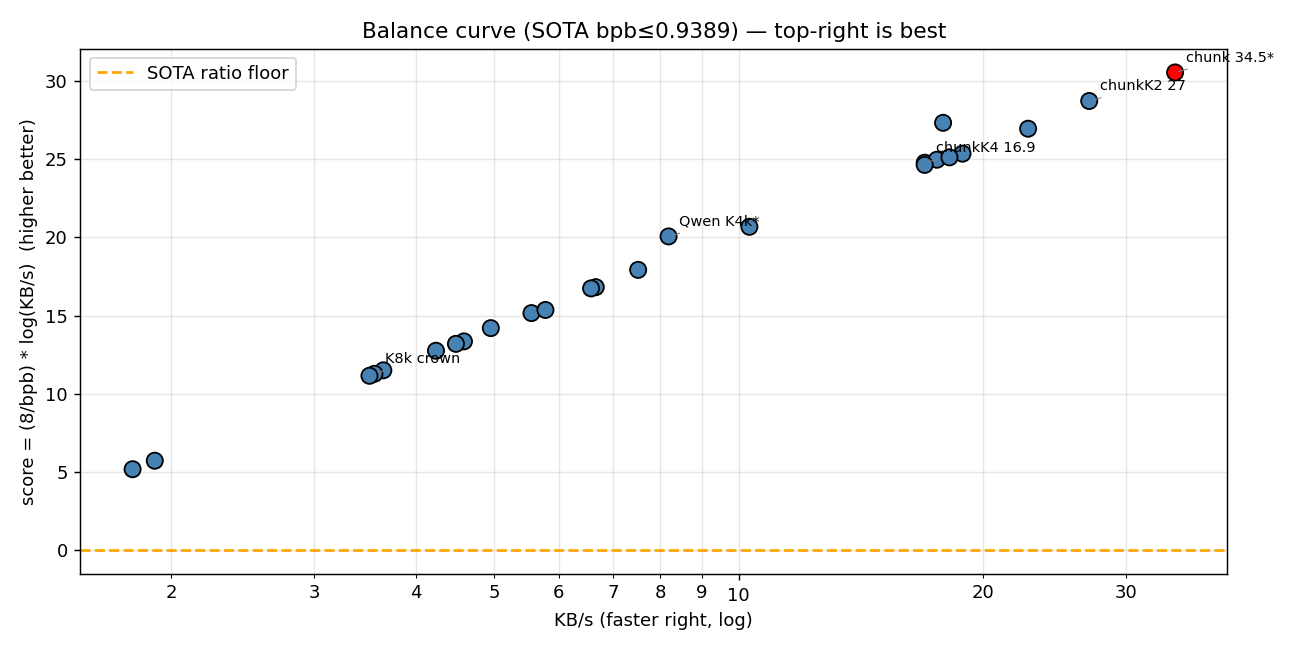
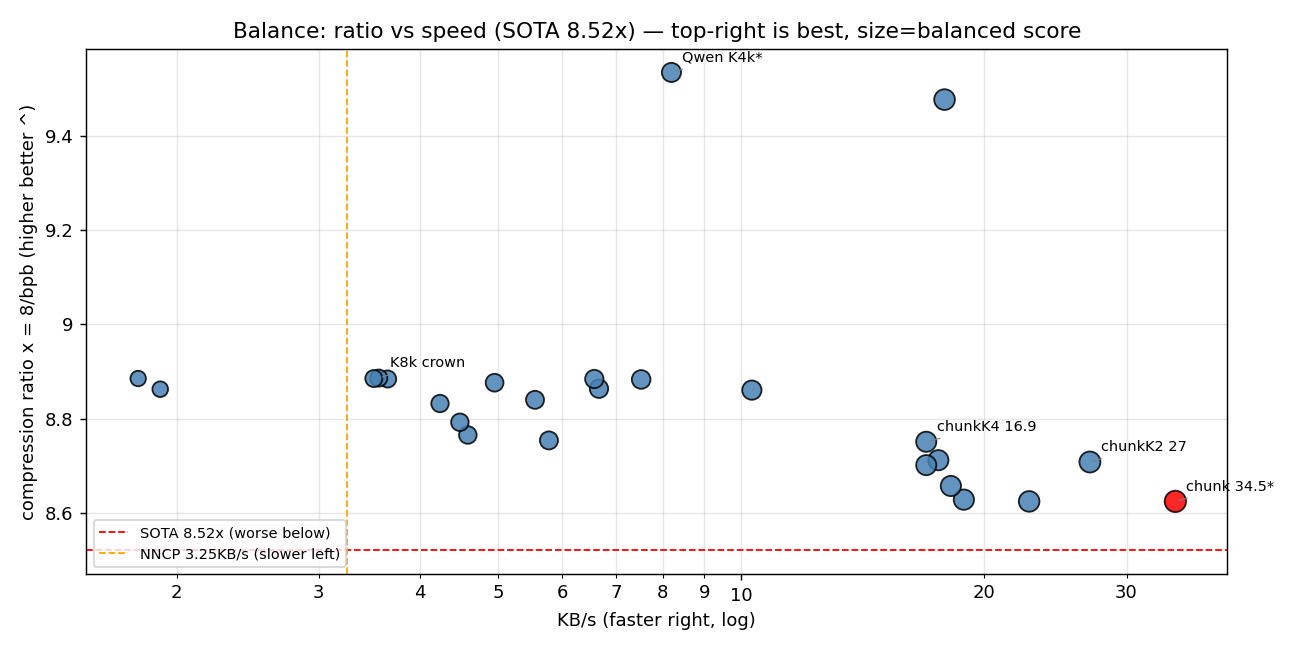
Balance: ratio vs speed (plain, SOTA 8.52x, size=score) - fix SOTA 0 bug and tautology

diff --git a/tools/balance_plot.py b/tools/balance_plot.py
@@ -1,6 +1,5 @@
-"""Balance curve: score = (8/bpb) * log(KB/s), SOTA-constrained.
-Highlights the balanced point that beats SOTA on both axes.
-"""
+"""Balance: compression ratio vs speed, SOTA-constrained.
+Score used only to pick the balanced best; y is plain ratio (higher better)."""
 import math, matplotlib
 matplotlib.use("Agg")
 import matplotlib.pyplot as plt
@@ -39,32 +38,35 @@ PTS = [
 def score(kbs,bpb): return (8/bpb)*math.log(kbs) if kbs>0 else 0
 
 SOTA_BPB=0.9389
+SOTA_RATIO=8.0/SOTA_BPB
 # filter SOTA-constrained (bpb<=SOTA)
 sota_pts=[p for p in PTS if p[2]<=SOTA_BPB]
 best=max(sota_pts, key=lambda p: score(p[1],p[2]))
-print(f"Balanced (SOTA-constrained) = {best[0]} score={score(best[1],best[2]):.2f} {best[1]:.1f}KB/s {best[2]:.4f}")
+print(f"Balanced (SOTA-constrained) = {best[0]} score={score(best[1],best[2]):.2f} {best[1]:.1f}KB/s {best[2]:.4f} ratio={8/best[2]:.2f}")
 
 fig, ax = plt.subplots(figsize=(10,5))
 xs=[p[1] for p in PTS]
-ys=[score(p[1],p[2]) for p in PTS]
+ys=[8/p[2] for p in PTS]
 labels=[p[0] for p in PTS]
-ax.scatter(xs, ys, c=['red' if p==best else 'steelblue' for p in PTS], s=80, edgecolors='black', zorder=3)
+# size by score, color best red
+sizes=[60+80*(score(p[1],p[2])/score(best[1],best[2])) for p in PTS]
+ax.scatter(xs, ys, c=['red' if p==best else 'steelblue' for p in PTS], s=sizes, edgecolors='black', zorder=3, alpha=0.85)
 for x,y,l in zip(xs,ys,labels):
     if l in (best[0], "K8k crown", "Qwen K4k*", "chunkK2 27", "chunkK4 16.9"):
         ax.annotate(l, (x,y), textcoords="offset points", xytext=(6,6), fontsize=8,
                     arrowprops=dict(arrowstyle="-", color="gray", lw=0.6))
 ax.set_xscale("log")
 ax.set_xlabel("KB/s (faster right, log)")
-ax.set_ylabel("score = (8/bpb) * log(KB/s)  (higher better)")
-ax.set_title("Balance curve (SOTA bpb≤0.9389) — top-right is best")
+ax.set_ylabel("compression ratio x = 8/bpb (higher better ^)")
+ax.set_title("Balance: ratio vs speed (SOTA 8.52x) — top-right is best, size=balanced score")
 ax.grid(True, which="both", alpha=0.3)
+ax.axhline(SOTA_RATIO, color="red", linestyle="--", lw=1, label="SOTA 8.52x (worse below)")
+ax.axvline(3.25, color="orange", linestyle="--", lw=1, label="NNCP 3.25KB/s (slower left)")
 ax.yaxis.set_major_formatter(FuncFormatter(lambda y,_: f"{y:g}"))
 ax.yaxis.set_minor_formatter(FuncFormatter(lambda y,_: f"{y:g}"))
 ax.xaxis.set_major_formatter(FuncFormatter(lambda x,_: f"{x:g}"))
 ax.xaxis.set_minor_formatter(FuncFormatter(lambda x,_: f"{x:g}"))
-# SOTA fail zone annotation
-ax.axhline(score(1,SOTA_BPB), color="orange", linestyle="--", label="SOTA ratio floor")
-ax.legend()
+ax.legend(fontsize=8, loc="lower left")
 fig.tight_layout()
 fig.savefig("balance_curve.png", dpi=130)
 print("saved balance_curve.png")

diff --git a/tools/combined_plot.py b/tools/combined_plot.py
@@ -136,16 +136,19 @@ PTS = OFF50 + [("Qwen K2k",100/5.6,0.8442),("Qwen K4k*",100/12.2,0.8391)]
 sota_pts=[p for p in PTS if p[2]<=SOTA_BPB]
 best=max(sota_pts, key=lambda p: score(p[1],p[2]))
 ax5 = fig.add_subplot(gs[2,:])
-xs=[p[1] for p in PTS]; ys=[score(p[1],p[2]) for p in PTS]
-ax5.scatter(xs, ys, c=['red' if p==best else 'steelblue' for p in PTS], s=70, edgecolors='black', zorder=3)
+xs=[p[1] for p in PTS]; ys=[8/p[2] for p in PTS]
+sizes=[50+60*(score(p[1],p[2])/score(best[1],best[2])) for p in PTS]
+ax5.scatter(xs, ys, c=['red' if p==best else 'steelblue' for p in PTS], s=sizes, edgecolors='black', zorder=3, alpha=0.85)
 for x,y,l in zip(xs,ys,[p[0] for p in PTS]):
     if l in (best[0], "K8k\ncrown", "Qwen K4k*", "chunkK2\n27KB/s", "chunkK4\n16.9KB/s"):
         ax5.annotate(l,(x,y), textcoords="offset points", xytext=(6,6), fontsize=7, arrowprops=dict(arrowstyle="-", color="gray", lw=0.6))
-ax5.set_xscale("log"); ax5.set_xlabel("KB/s (faster right, log)"); ax5.set_ylabel("score = (8/bpb)*log(KB/s)")
-ax5.set_title(f"Balance curve (SOTA bpb<={SOTA_BPB}) — best = {best[0]}  score={score(best[1],best[2]):.1f}", fontsize=9)
+ax5.set_xscale("log"); ax5.set_xlabel("KB/s (faster right, log)"); ax5.set_ylabel("compression ratio x = 8/bpb (higher better ^)")
+ax5.set_title(f"Balance: ratio vs speed (SOTA 8.52x) — best = {best[0]}  score={score(best[1],best[2]):.1f}  size=score", fontsize=9)
+ax5.axhline(SOTA_RATIO, color="red", linestyle="--", lw=1, label="SOTA 8.52x")
 ax5.grid(True, which="both", alpha=0.3)
 ax5.yaxis.set_major_formatter(FuncFormatter(lambda y,_: f"{y:g}")); ax5.yaxis.set_minor_formatter(FuncFormatter(lambda y,_: f"{y:g}"))
 ax5.xaxis.set_major_formatter(FuncFormatter(lambda x,_: f"{x:g}")); ax5.xaxis.set_minor_formatter(FuncFormatter(lambda x,_: f"{x:g}"))
+ax5.legend(fontsize=7, loc="lower left")
 
 fig.suptitle("Combined: Pareto + Scale + Balance (all measured, no extrapolation)", fontsize=11)
 fig.tight_layout(rect=[0,0,1,0.96])
